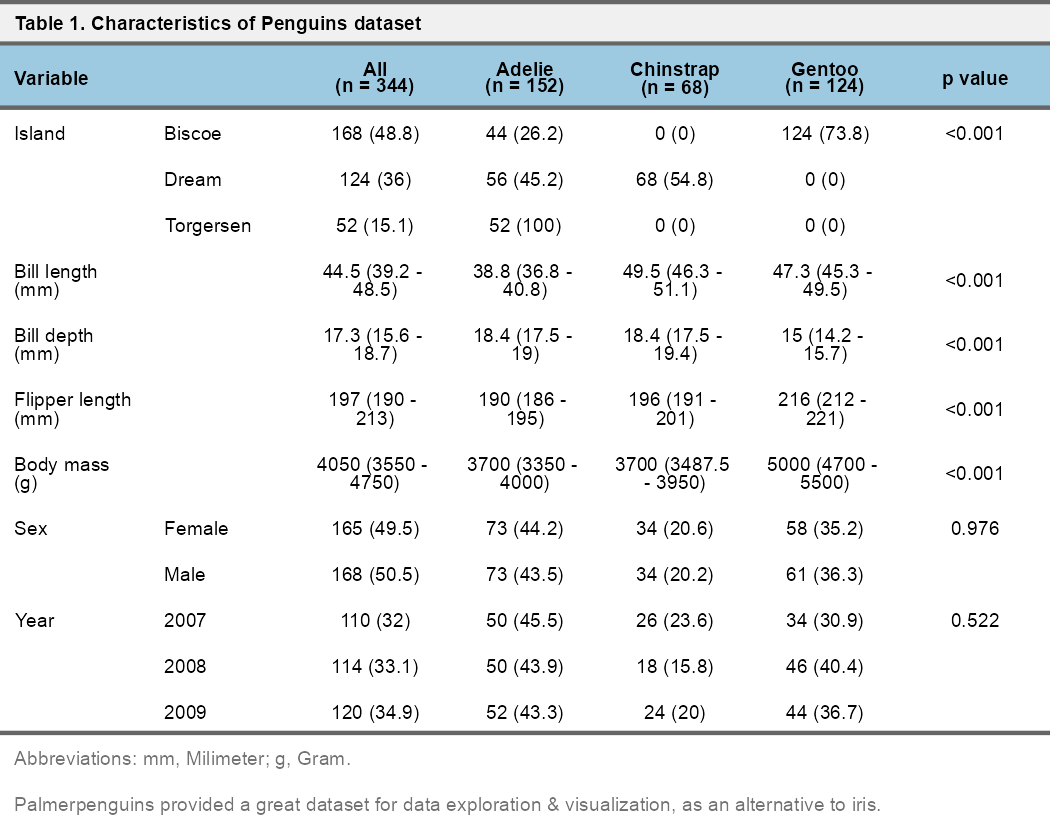
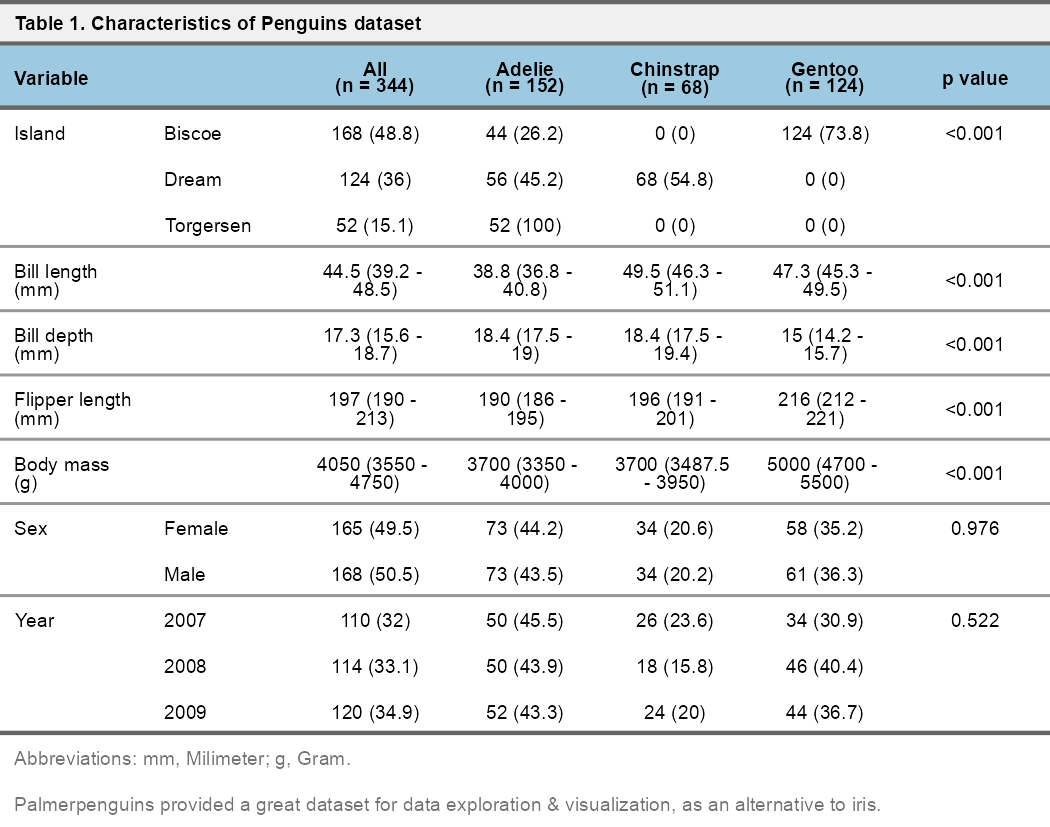
ag_ff_glimpse correction

diff --git a/README.md b/README.md
@@ -267,6 +267,7 @@ summary_flextable %>%
         ag_flex_title(1, "Characteristics of Penguins dataset") %>% 
         ag_flex_abbr(abbr = abbr_vector) %>% 
         ag_flex_footnote(my_random_foot) %>% 
+        ag_flex_hline() %>%  
         flextable::fontsize(size = 7, part = "all")
 ```
 
